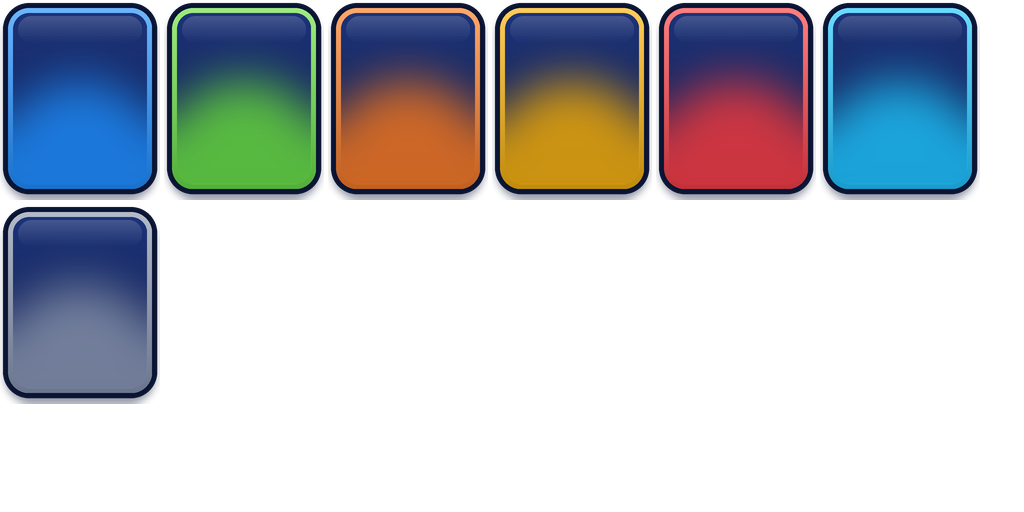
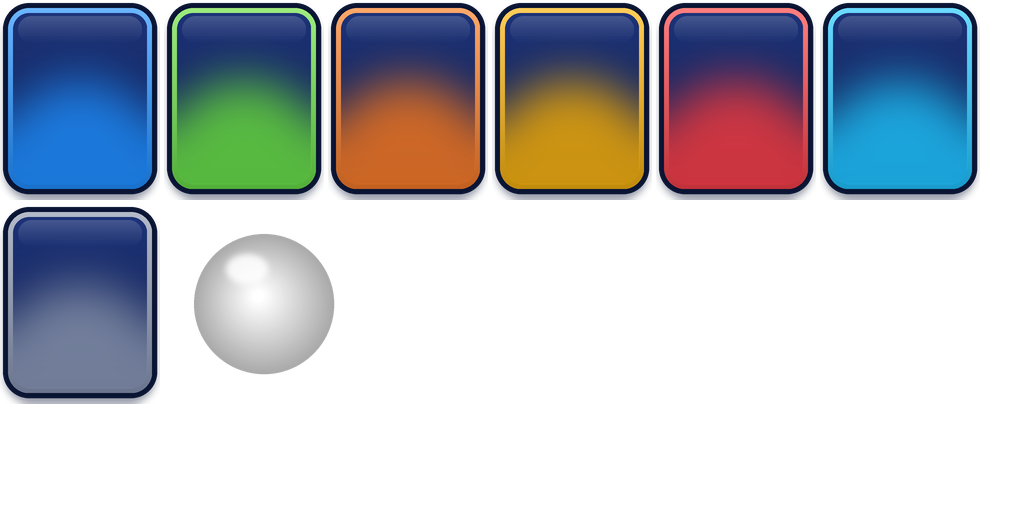
vault backup: 2026-10-28 16:38:16

Changed region(s): [[0.1875, 0.4375, 0.3438, 0.75]]

diff --git a/Games/SpeedArc/tools/make_ui_kit.py b/Games/SpeedArc/tools/make_ui_kit.py
@@ -186,6 +186,44 @@ def badge(colour):
     return shrink(img, (W, H))
 
 
+# ---------------------------------------------------------------- reveal fx (white, the game tints them)
+def orb():
+    W = 200
+    size = (W * SS, W * SS)
+    img = Image.new("RGBA", size, (0, 0, 0, 0))
+    halo = mask(size, lambda d: d.ellipse(S(10, 10, 190, 190), fill=255)).filter(ImageFilter.GaussianBlur(14 * SS))
+    paint(img, halo, (255, 255, 255, 150))
+    for k in range(40):  # the sphere: rings from the dim edge to the bright core
+        t = k / 39
+        r = 64 * (1 - t) + 6
+        c = int(170 + 85 * t)
+        paint(img, mask(size, lambda d, r=r: d.ellipse(S(100 - r - 6 * t, 100 - r - 8 * t, 100 + r - 6 * t, 100 + r - 8 * t), fill=255)), (c, c, c, 255))
+    paint(img, mask(size, lambda d: d.ellipse(S(62, 50, 104, 80), fill=255)).filter(ImageFilter.GaussianBlur(3 * SS)), (255, 255, 255, 220))
+    return shrink(img, (W, W))
+
+
+def burst():
+    import math
+    W = 200
+    size = (W * SS, W * SS)
+    rays = Image.new("L", size, 0)
+    d = ImageDraw.Draw(rays)
+    n = 16
+    for k in range(n):
+        a0 = (k / n) * 2 * math.pi
+        a1 = a0 + math.pi / n * 0.8
+        pts = [(100 * SS, 100 * SS)] + [((100 + 100 * math.cos(a)) * SS, (100 + 100 * math.sin(a)) * SS) for a in (a0, a1)]
+        d.polygon(pts, fill=255)
+    fade = Image.new("L", size, 0)
+    fd = ImageDraw.Draw(fade)
+    for k in range(50):
+        r = 100 * (1 - k / 50)
+        fd.ellipse(S(100 - r, 100 - r, 100 + r, 100 + r), fill=int(255 * (k / 50) ** 0.7))
+    img = Image.new("RGBA", size, (255, 255, 255, 0))
+    img.putalpha(ImageChops.multiply(rays.filter(ImageFilter.GaussianBlur(2 * SS)), fade))
+    return shrink(img, (W, W))
+
+
 # ---------------------------------------------------------------- icons (128 x 128, navy outline)
 def icon(parts, details=None, outline=7):
     """parts: list of (draw_fn(d) in 1x coords via S, colour). details: fn(d) drawn on top."""
@@ -342,6 +380,8 @@ def build():
     spr["badge_red"] = save("badge_red", badge("#FF3B3B"), None, None, "notification dot")
     spr["badge_bronze"] = save("badge_bronze", badge("#D9822B"), None, None, "rank badge")
     spr["badge_white"] = save("badge_white", badge("#F4F6FA"), None, None, "badge the game tints (ImageColor3), e.g. the rank colour")
+    spr["fx_orb"] = save("fx_orb", orb(), None, None, "coach roll reveal: the orb (tinted by rarity)")
+    spr["fx_burst"] = save("fx_burst", burst(), None, None, "coach roll reveal: the burst rays (tinted by rarity)")
     for k, v in ICONS().items():
         spr["icon_" + k] = save("icon_" + k, v, None, None, "icon")
     with open(os.path.join(OUT_SPR, "kit.json"), "w") as f:
@@ -562,7 +602,7 @@ GUTTER = 4
 
 
 def sheet_of(name):
-    return "Tiles" if name.startswith("tile_") else "Icons" if name.startswith("icon_") else "Buttons"
+    return "Tiles" if name.startswith(("tile_", "fx_")) else "Icons" if name.startswith("icon_") else "Buttons"
 
 
 def pack():
